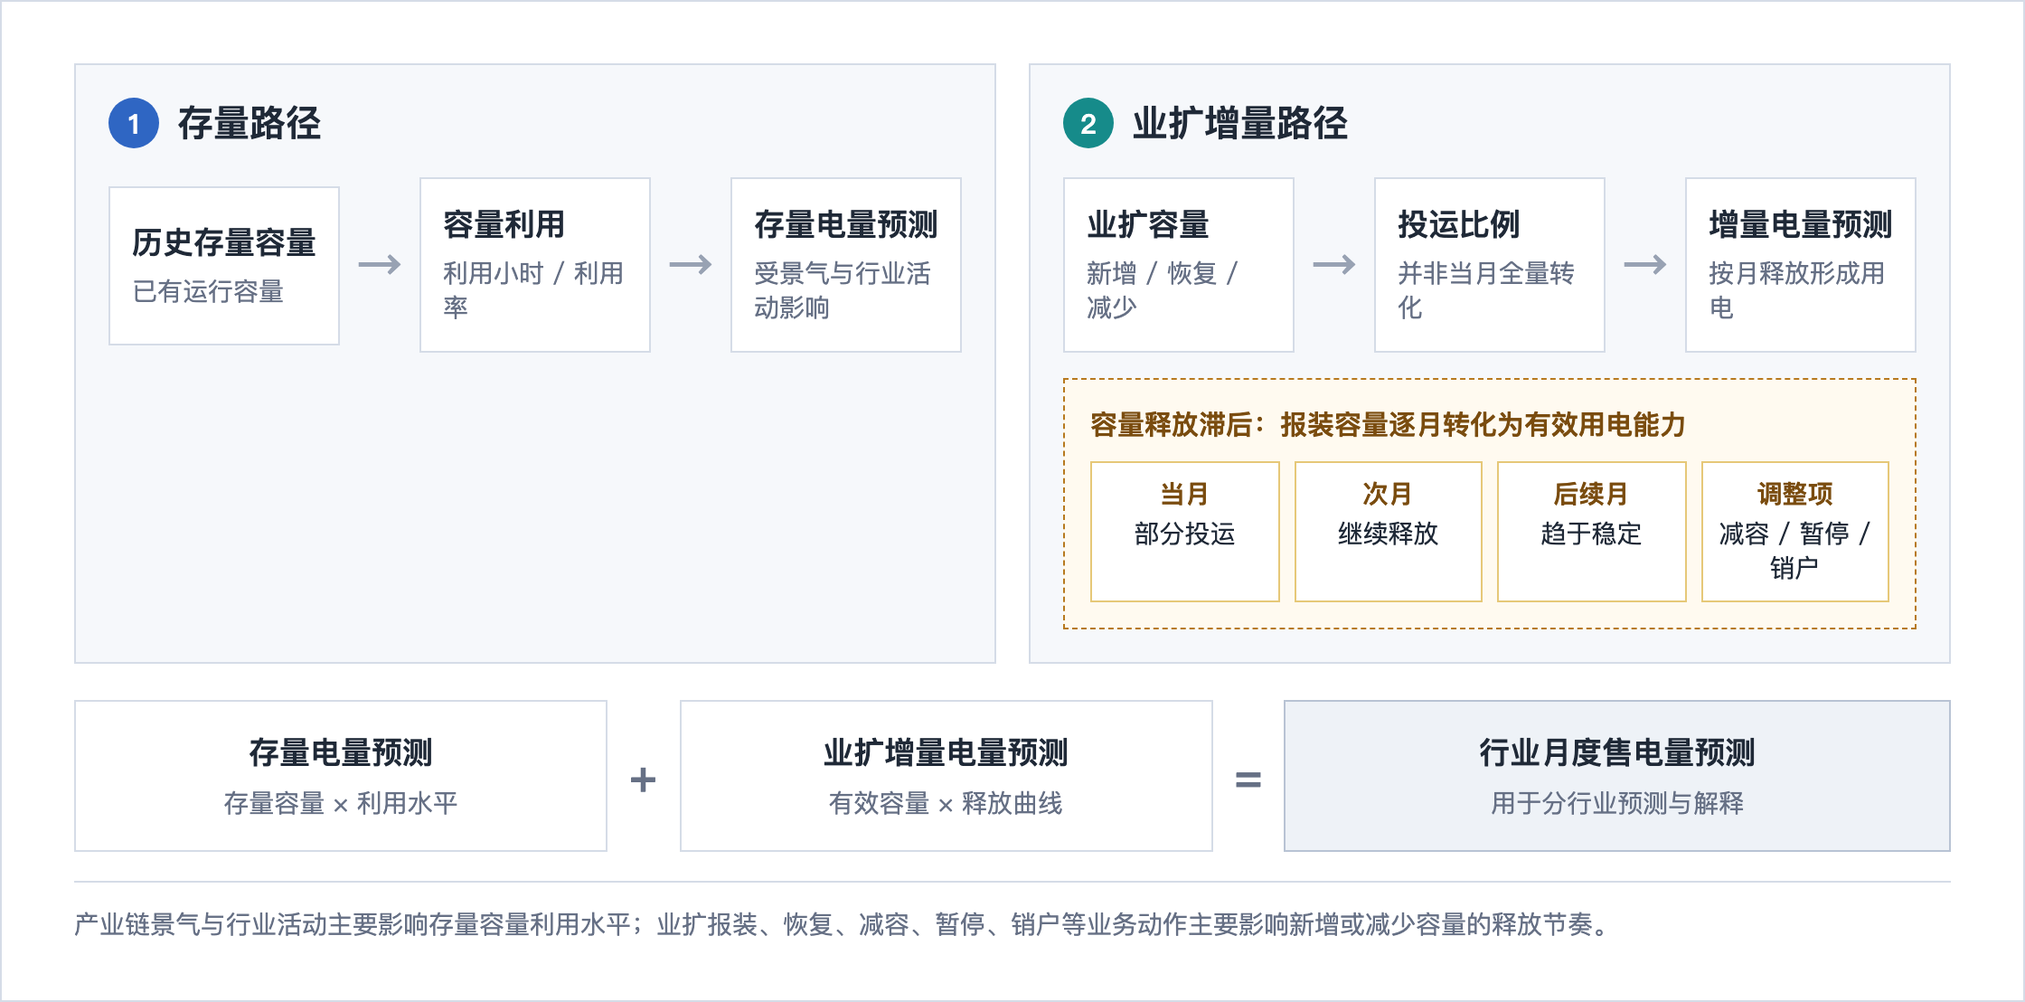
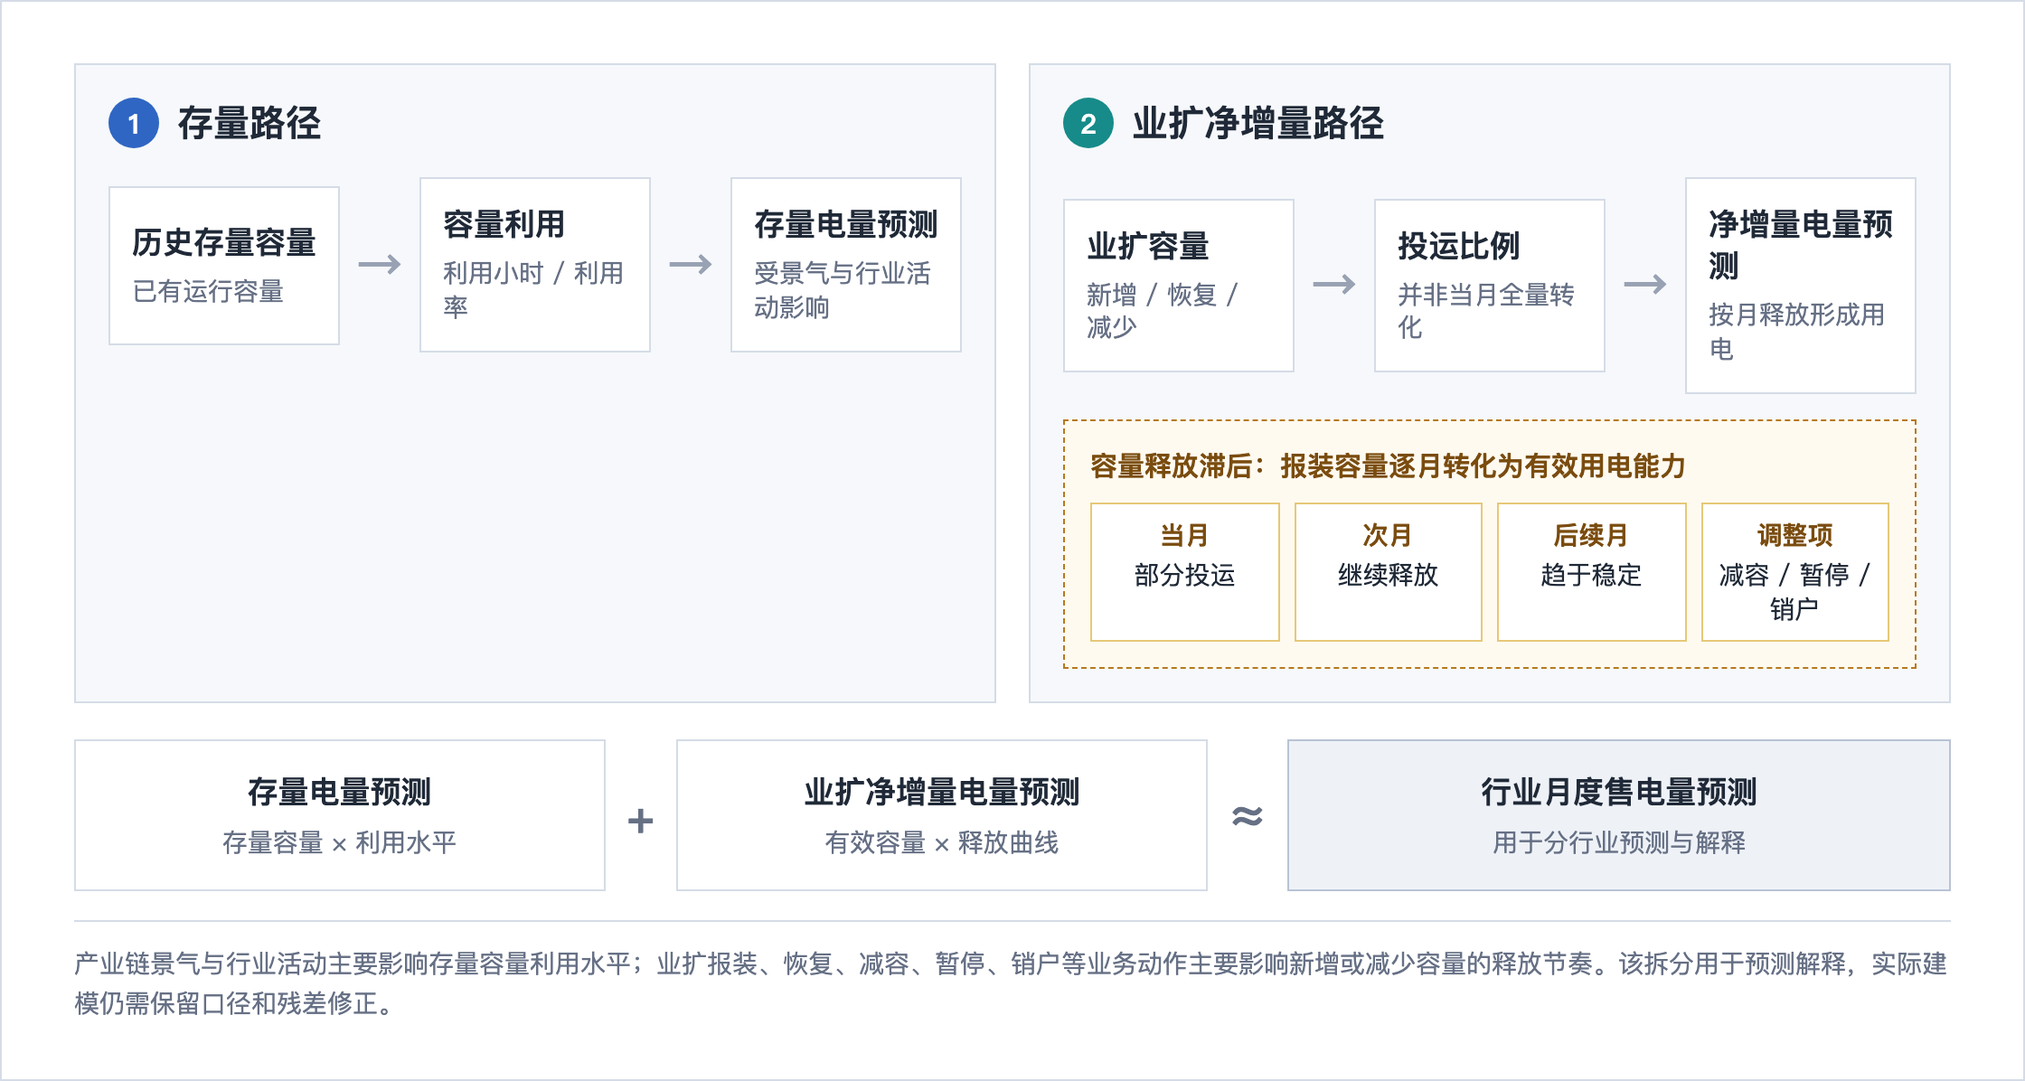
vault backup: 2026-05-14 01:01:04
Affected files:
Projects/Zheng/江苏月度售电量/综述修改开始/.DS_Store
Projects/Zheng/江苏月度售电量/综述修改开始/attachment/capacity-release-stock-increment-framework.png
Projects/Zheng/江苏月度售电量/综述修改开始/attachment/evaluation-metric-layer-framework.png
Projects/Zheng/江苏月度售电量/综述修改开始/attachment/implementation-roadmap-framework.png
Projects/Zheng/江苏月度售电量/综述修改开始/江苏月度售电量预测新增思路文献综述.md

diff --git a/Projects/Zheng/江苏月度售电量/综述修改开始/江苏月度售电量预测新增思路文献综述.md b/Projects/Zheng/江苏月度售电量/综述修改开始/江苏月度售电量预测新增思路文献综述.md
@@ -43,7 +43,7 @@
 
 除历史售电量、月份、工业增加值等常规变量外，江苏月度售电量预测可以形成五类外生变量组合：天气与日历变量、经济景气变量、产业链与行业活动变量、结构与业务变量、有待探索的补充变量。前四类适合进入近期建模试验；金融信用、港口吞吐量、文旅客流等变量具备解释潜力，但需要先核验连续月度来源、发布滞后和行业映射关系。
 
-如图 2-1 所示，外生变量不是简单罗列，而是按照可落地程度和预测逻辑分层组织：基础控制项优先保证可比性，经济、行业和业务变量逐层增强解释力，探索变量先保留核验入口。
+图 2-1 将新增外生变量按可落地程度和预测逻辑分层：基础控制项先保证可比性，经济、行业和业务变量逐层增强解释力，探索变量保留核验入口。
 
 <div align="center">
   <img src="./attachment/exogenous-variable-layer-framework-paper.png" alt="新增外生变量分层框架" width="92%">
@@ -63,7 +63,7 @@
 | P2 | 理论上可能有效，但连续月度来源、发布滞后或行业映射尚不稳定 | 保留为后续试验变量 | 金融信用、港口吞吐量、文旅客流、人口流动、政策事件强度 |
 | P3 | 当前证据不足或难以在预测时点获得 | 暂不进入正文主线 | 非结构化长文本事件、难以稳定获取的第三方商业数据 |
 
-本次数据源核验后，变量可得性建议再分为五档：工作日、节假日、国家 PMI、国家数据和 Open-Meteo 历史天气等属于“可直接公开获取”；江苏统计简况、外贸、港口物流、金融和文旅数据属于“公开但需人工整理”；户数、运行容量、业扩报装、有效容量、容量利用小时、分布式光伏电量和充电设施电量更适合由甲方内部系统提供；和风天气、行业价格、开工率、部分充电联盟月报转载等属于“商业或不稳定来源”；重大事件、政策文本和文旅客流在未形成连续月度口径前仅作探索。
+数据源核验后，变量可得性可再分为五档：工作日、节假日、国家 PMI、国家数据和 Open-Meteo 历史天气等可直接公开获取；江苏统计简况、外贸、港口物流、金融和文旅数据公开但需人工整理；户数、运行容量、业扩报装、有效容量、容量利用小时、分布式光伏电量和充电设施电量更适合由电网企业内部系统提供；和风天气、行业价格、开工率、部分充电联盟月报转载等属于商业或不稳定来源；重大事件、政策文本和文旅客流在形成连续月度口径前仅作探索。
 
 ### 2.3 天气与日历变量
 
@@ -91,7 +91,7 @@
 
 业扩报装变量应从事件标签升级为结构化业务变量。业扩容量曲线研究将存量电量和每次业扩产生的电量分离，用 Logistic 生长曲线拟合容量释放过程，提取稳定利用小时、稳定时间和逐月投运比例，再将报装容量转换为按月释放的有效容量<sup><a href="#ref-6">[6]</a></sup>。因此，新增容量、减容、暂停、恢复、销户、有效容量、容量释放滞后和投运比例均可作为制造业、园区、大工业和重点用户行业的业务领先变量。
 
-容量利用小时和容量利用率可连接产业活动、经济景气和售电量。容量利用特征研究将运行容量拆分为存量容量和业扩容量，用产业链主导因素预测存量容量利用小时，再叠加业扩增量电量<sup><a href="#ref-7">[7]</a></sup>。这一框架适合用于重点制造业：产业链指标解释容量利用变化，业扩变量解释新增用电能力何时释放，售电量由存量利用与增量释放共同形成。
+容量利用小时和容量利用率可连接产业活动、经济景气和售电量。容量利用特征研究将运行容量拆分为存量容量和业扩容量，用产业链主导因素预测存量容量利用小时，再叠加业扩净增量电量<sup><a href="#ref-7">[7]</a></sup>。这一框架适合用于重点制造业：产业链指标解释容量利用变化，业扩变量解释新增用电能力何时释放，存量利用和净增量释放共同解释行业售电量变化。
 
 ### 2.7 有待探索的补充变量
 
@@ -119,16 +119,16 @@
 
 第二类是行业聚类、分组模型和全局模型。细分行业月度电量研究先识别行业周期性和行业相似度，再按行业组配置模型<sup><a href="#ref-3">[3]</a></sup>。阜宁案例也显示，工业、商业、居民等对象的变量和模型选择存在明显差异<sup><a href="#ref-5">[5]</a></sup>。因此，可先按行业占比、趋势、季节性、天气敏感性、春节敏感性和业务属性建立行业标签，再选择行业专属模型、分组模型或全局模型。全局模型可将多个行业序列合并训练，通过行业编码共享信息，缓解单行业样本不足。
 
-第三类是结构化业务模型。业扩容量释放曲线可用于预测新增容量从报装到实际用电的转化过程<sup><a href="#ref-6">[6]</a></sup>；容量利用模型可先预测存量容量利用小时，再叠加业扩增量电量<sup><a href="#ref-7">[7]</a></sup>。这一方法特别适用于制造业、园区、大工业、重点用户和新增项目集中的行业。它的优势在于解释力：模型可以拆分出存量贡献、增量贡献、容量释放滞后和产业链主导因素。
+第三类是结构化业务模型。业扩容量释放曲线可用于预测新增容量从报装到实际用电的转化过程<sup><a href="#ref-6">[6]</a></sup>；容量利用模型可先预测存量容量利用小时，再叠加业扩净增量电量<sup><a href="#ref-7">[7]</a></sup>。这一方法特别适用于制造业、园区、大工业、重点用户和新增项目集中的行业。它的优势在于解释力：模型可以拆分出存量贡献、净增量贡献、容量释放滞后和产业链主导因素。
 
-图 3-1 将这一结构化业务模型拆成两条路径：一条解释已有容量如何形成存量电量，另一条解释业扩容量如何经过投运和滞后释放形成增量电量。
+图 3-1 将这一结构化业务模型拆成两条路径：一条解释已有容量如何形成存量电量，另一条解释业扩容量如何经过投运和滞后释放形成净增量电量。
 
 <div align="center">
-  <img src="./attachment/capacity-release-stock-increment-framework.png" alt="业扩容量释放与存量增量拆分示意图" width="92%">
-  <p>图 3-1 业扩容量释放与存量/增量拆分示意图（参考 <a href="#ref-6">[6]</a>、<a href="#ref-7">[7]</a>）</p>
+  <img src="./attachment/capacity-release-stock-increment-framework.png" alt="业扩容量释放与存量净增量拆分示意图" width="92%">
+  <p>图 3-1 业扩容量释放与存量/净增量拆分示意图（参考 <a href="#ref-6">[6]</a>、<a href="#ref-7">[7]</a>）</p>
 </div>
 
-这一路径的实施重点不是把业扩容量简单作为当月解释变量，而是先形成有效容量和释放曲线，再与存量容量利用预测合成行业月度售电量。
+实施重点不是把业扩容量简单作为当月解释变量，而是先形成有效容量和释放曲线，再与存量容量利用预测共同形成行业月度售电量预测。
 
 ### 3.4 前沿对照
 
@@ -171,7 +171,7 @@
 
 治理诊断指标用于定位模型失效原因。系统偏差（Bias）或归一化平均偏差（Normalized Mean Bias Error, NMBE）用于识别长期高估或低估；分组误差用于比较第一产业、第二产业、第三产业、行业大类、重点细分行业、春节月、高温月、低温月和异常事件月表现；层级一致性误差用于衡量省级预测与产业、行业加总之间的差额；同比和环比方向命中率用于评价趋势判断能力。
 
-业务结构变量还需要专门诊断。业扩容量模型可比较原始净增容量与有效容量、滞后释放容量的修正前后误差；容量利用模型可计算容量-电量相关系数、Pearson 相关系数、K-L 信息量和存量/增量贡献拆分<sup><a href="#ref-6">[6]</a></sup> <sup><a href="#ref-7">[7]</a></sup>。这些指标适合变量筛选和模型解释，不适合作为主评估指标。
+业务结构变量还需要专门诊断。业扩容量模型可比较原始净增容量与有效容量、滞后释放容量的修正前后误差；容量利用模型可计算容量-电量相关系数、Pearson 相关系数、K-L 信息量和存量/净增量贡献拆分<sup><a href="#ref-6">[6]</a></sup> <sup><a href="#ref-7">[7]</a></sup>。这些指标适合变量筛选和模型解释，不适合作为主评估指标。
 
 ### 4.6 风险表达指标
 
@@ -181,7 +181,7 @@
 
 ## 第五章 综合建议与落地路线
 
-本章把前面三类新增思路收束为可执行路线：短期先建立稳健底座，中期强化行业结构和业务变量，长期再推进前沿模型对照和风险表达。
+图 5-1 把前面三类新增思路收束为可执行路线：短期先建立稳健底座，中期强化行业结构和业务变量，长期再推进前沿模型对照和风险表达。
 
 <div align="center">
   <img src="./attachment/implementation-roadmap-framework.png" alt="江苏月度售电量预测新增思路落地路线图" width="92%">
@@ -194,7 +194,7 @@
 
 ### 5.2 中期路线：强化行业分组和结构化业务建模
 
-中期工作可围绕行业差异展开。先按行业结构、占比、周期性、天气敏感性、春节敏感性和产业链属性建立行业标签，再选择行业专属模型、分组模型或全局模型。制造业、园区、大工业和重点用户行业可优先试验“存量电量 + 业扩增量”“存量容量利用小时 + 新增容量释放”框架，用修正前后对照验证业务变量是否带来稳定增益。
+中期工作可围绕行业差异展开。先按行业结构、占比、周期性、天气敏感性、春节敏感性和产业链属性建立行业标签，再选择行业专属模型、分组模型或全局模型。制造业、园区、大工业和重点用户行业可优先试验“存量电量 + 业扩净增量”“存量容量利用小时 + 业扩容量释放”框架，用修正前后对照验证业务变量是否带来稳定增益。
 
 ### 5.3 长期路线：前沿模型和概率预测作为创新储备
 
@@ -211,8 +211,8 @@
 | 产业链产品与价格 | 重点产品产量、库存、价格、工业品价格、行业增加值、能源产品产量 | 钢铁、化工、汽车、光伏、电子、电气机械等制造业 | 产业链映射、时差相关、行业专属变量池 | [国家数据月度指标](https://data.stats.gov.cn/?lang=zh)；[江苏统计进度数据](https://tj.jiangsu.gov.cn/col/col90203/index.html)；[江苏省政府经济运行简况](https://www.jiangsu.gov.cn/art/2025/6/20/art_34151_11586355.html)；必要时补充行业协会或商业价格数据 | 国家级产品和价格指标公开较稳；江苏细分行业/产品颗粒度可能不足，需人工整理或降为行业解释变量 | P1 | <sup><a href="#ref-4">[4]</a></sup> <sup><a href="#ref-8">[8]</a></sup> |
 | 外贸与物流 | 外贸出口、机电产品出口、新三样出口、货运量、港口货物吞吐量、集装箱吞吐量 | 外向型制造、交通运输仓储、批发零售、港口物流相关行业 | 同比/环比、滞后项、外贸链条映射、物流景气代理 | [海关统计数据在线查询](https://online.customs.gov.cn/ocportal/mySearch/)；[海关总署统计月报](https://english.customs.gov.cn/statics/report/monthly.html)；[商务部转载南京海关外贸资料](https://shtb.mofcom.gov.cn/hszsw/art/2025/art_157574c0054244eeba4784b89596a7de.html)；[江苏省交通运输厅港口/物流资料](https://jtyst.jiangsu.gov.cn/art/2025/7/18/art_41904_11604061.html) | 官方来源存在，但多需在线查询、栏目检索或逐月新闻整理；港口物流连续月度结构化入口仍需确认 | P1/P2 | <sup><a href="#ref-4">[4]</a></sup> <sup><a href="#ref-17">[17]</a></sup> |
 | 行业结构 | 主导行业标签、增长行业标签、行业相似度、行业聚类 | 全行业和重点细分行业 | 行业编码、分组建模、全局模型标签 | 目前已有的项目基础数据表；由历史售电、行业占比、趋势、季节性和相似度计算形成 | 依赖本项目已有结构化数据和建模加工，不需要外部公开来源 | P0 | <sup><a href="#ref-3">[3]</a></sup> <sup><a href="#ref-5">[5]</a></sup> <sup><a href="#ref-15">[15]</a></sup> |
-| 业务结构 | 户数、运行容量、净增容量、业扩报装、有效容量、容量利用小时 | 制造业、园区、大工业、重点用户 | 存量/增量拆分、容量释放滞后、有效容量 | 甲方营销、业扩、计量、客户档案和容量管理系统；目前已有的项目基础数据表 | 需甲方内部数据，是近期建模价值高但不应承诺外部可得的 P0/P1 变量 | P0/P1 | <sup><a href="#ref-6">[6]</a></sup> <sup><a href="#ref-7">[7]</a></sup> <sup><a href="#ref-15">[15]</a></sup> |
-| 新型负荷 | 分布式光伏装机/并网容量、分布式光伏电量、充电设施电量、充换电服务业 | 居民、商业、交通、新型负荷相关行业 | 占比、趋势项、售电口径修正、行业交互 | [国家能源局光伏发电建设情况](https://www.nea.gov.cn/2024-05/06/c_1310773741.htm)可提供公开装机线索；[中国电动汽车充电基础设施促进联盟](https://www.evcipa.org.cn/)公开月报可提供充电基础设施线索；电量和售电口径修正以甲方内部数据为准 | 装机/设施公开但需整理；分布式光伏电量和充电电量更适合内部获取，不能写成稳定外部数据源 | P1 | <sup><a href="#ref-15">[15]</a></sup> <sup><a href="#ref-17">[17]</a></sup> |
+| 业务结构 | 户数、运行容量、净增容量、业扩报装、有效容量、容量利用小时 | 制造业、园区、大工业、重点用户 | 存量/净增量拆分、容量释放滞后、有效容量 | 电网企业营销、业扩、计量、客户档案和容量管理系统；目前已有的项目基础数据表 | 需电网企业内部数据，是近期建模价值高但不应承诺外部可得的 P0/P1 变量 | P0/P1 | <sup><a href="#ref-6">[6]</a></sup> <sup><a href="#ref-7">[7]</a></sup> <sup><a href="#ref-15">[15]</a></sup> |
+| 新型负荷 | 分布式光伏装机/并网容量、分布式光伏电量、充电设施电量、充换电服务业 | 居民、商业、交通、新型负荷相关行业 | 占比、趋势项、售电口径修正、行业交互 | [国家能源局光伏发电建设情况](https://www.nea.gov.cn/2024-05/06/c_1310773741.htm)可提供公开装机线索；[中国电动汽车充电基础设施促进联盟](https://www.evcipa.org.cn/)公开月报可提供充电基础设施线索；电量和售电口径修正以电网企业内部数据为准 | 装机/设施公开但需整理；分布式光伏电量和充电电量更适合内部获取，不能写成稳定外部数据源 | P1 | <sup><a href="#ref-15">[15]</a></sup> <sup><a href="#ref-17">[17]</a></sup> |
 | 探索变量 | 金融信用、港口吞吐量、文旅客流、重大事件、政策事件 | 投资链、物流链、住宿餐饮、公共服务 | 数据源核验后再做滞后项、事件哑变量和消融实验 | [人民银行江苏省分行](https://nanjing.pbc.gov.cn/)；[江苏省交通运输厅港口/物流资料](https://jtyst.jiangsu.gov.cn/art/2025/7/18/art_41904_11604061.html)；江苏海事局相关发布；[文化和旅游部转载江苏假日文旅数据](https://www.mct.gov.cn/whzx/qgwhxxlb/js/202405/t20240506_952659.htm)；政府公告和新闻稿 | 公开但多需人工整理，且连续月度口径、行业映射和预测时点可得性不稳定；近期仅作探索 | P2 | <sup><a href="#ref-17">[17]</a></sup> |
 
 ## 附录 B：预测方法建议清单
@@ -224,7 +224,7 @@
 | 稳健基线 | 季节 naive、ETS、ARIMA/SARIMA、SARIMAX、动态回归、可解释回归 | 建立比较标尺，解释天气日历和经济变量贡献 | 必做 | <sup><a href="#ref-1">[1]</a></sup> <sup><a href="#ref-9">[9]</a></sup> |
 | 低成本增强 | Random Forest、XGBoost、LightGBM、CatBoost、SHAP、LOFO | 处理非线性、滞后特征、行业编码和变量交互 | 主模型候选 | <sup><a href="#ref-10">[10]</a></sup> |
 | 行业分组 | 行业聚类、分组回归、分组 Prophet、全局模型 | 缓解单行业样本短，按行业特性共享信息 | 增强路线 | <sup><a href="#ref-3">[3]</a></sup> <sup><a href="#ref-5">[5]</a></sup> |
-| 结构化业务模型 | 容量释放曲线、存量电量 + 业扩增量、容量利用小时预测 | 解释新增容量释放和存量容量利用变化 | 重点增强 | <sup><a href="#ref-6">[6]</a></sup> <sup><a href="#ref-7">[7]</a></sup> |
+| 结构化业务模型 | 容量释放曲线、存量电量 + 业扩净增量、容量利用小时预测 | 解释新增容量释放和存量容量利用变化 | 重点增强 | <sup><a href="#ref-6">[6]</a></sup> <sup><a href="#ref-7">[7]</a></sup> |
 | 层级协调 | bottom-up、top-down、middle-out、forecast reconciliation、MinT | 保持总量、产业、行业预测一致 | 治理机制 | <sup><a href="#ref-11">[11]</a></sup> <sup><a href="#ref-12">[12]</a></sup> |
 | 前沿对照 | TimeGPT、Chronos、TimesFM、Moirai | 测试预训练时序模型在月度行业售电量上的迁移效果 | benchmark | <sup><a href="#ref-14">[14]</a></sup> |
 | 风险表达 | 分位数回归、Conformal prediction、CRPS | 输出预测区间并评价不确定性 | 局部试点 | <sup><a href="#ref-13">[13]</a></sup> <sup><a href="#ref-16">[16]</a></sup> |
@@ -241,7 +241,7 @@
 | 跨行业比较 | MASE、RMSSE | 不同规模行业序列 | 小于 1 表示优于季节 naive 基线 | 诊断指标 | <sup><a href="#ref-9">[9]</a></sup> |
 | 治理诊断 | Bias/NMBE、分组误差、方向命中率 | 产业、行业、异常月份 | 定位系统偏差和局部失效 | 诊断指标 | <sup><a href="#ref-1">[1]</a></sup> <sup><a href="#ref-2">[2]</a></sup> |
 | 层级一致性 | 加总误差、reconciliation gap | 总量、产业、行业层级 | 分行业加总是否与总量口径一致 | 诊断指标 | <sup><a href="#ref-11">[11]</a></sup> <sup><a href="#ref-12">[12]</a></sup> |
-| 结构变量诊断 | 修正前后对照、容量-电量相关系数、K-L 信息量、存量/增量贡献拆分 | 业扩容量、容量利用、产业链变量 | 判断业务变量是否改进解释和预测 | 变量筛选指标 | <sup><a href="#ref-6">[6]</a></sup> <sup><a href="#ref-7">[7]</a></sup> |
+| 结构变量诊断 | 修正前后对照、容量-电量相关系数、K-L 信息量、存量/净增量贡献拆分 | 业扩容量、容量利用、产业链变量 | 判断业务变量是否改进解释和预测 | 变量筛选指标 | <sup><a href="#ref-6">[6]</a></sup> <sup><a href="#ref-7">[7]</a></sup> |
 | 风险表达 | Pinball Loss、区间覆盖率、区间宽度、CRPS | 区间预测、分位数预测 | 区间是否覆盖真实值且不过宽 | 探索指标 | <sup><a href="#ref-13">[13]</a></sup> <sup><a href="#ref-16">[16]</a></sup> |
 
 ## 参考依据
